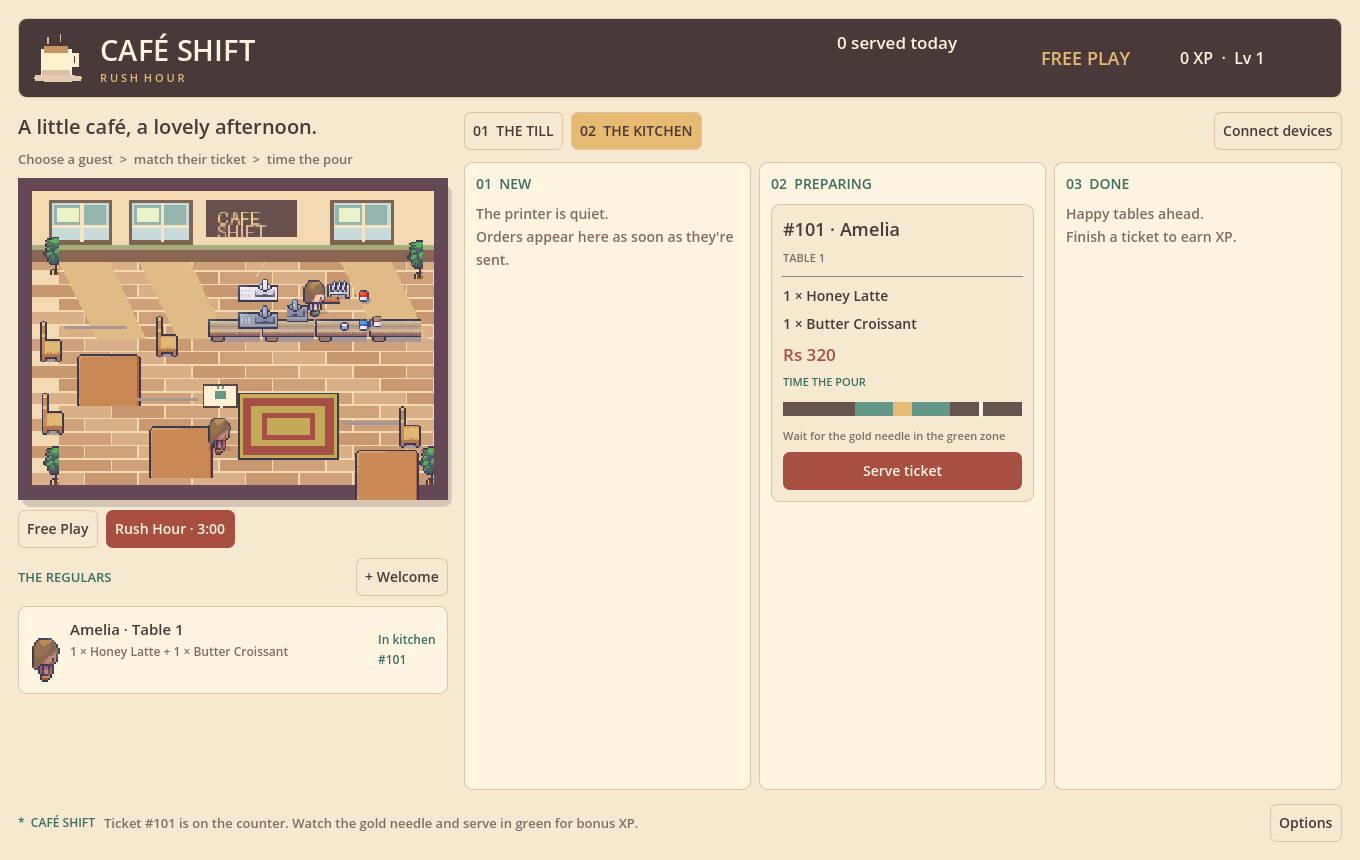
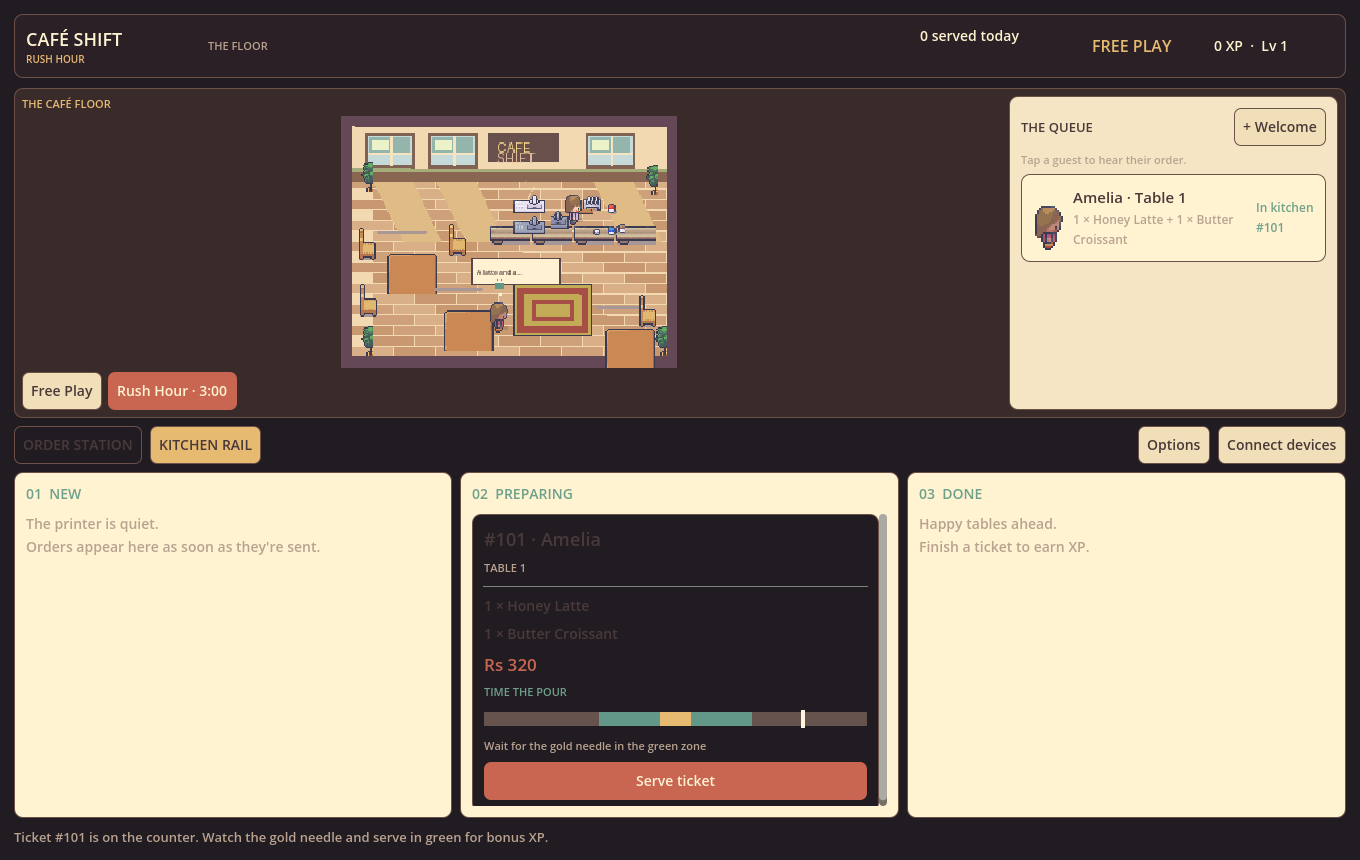
Reframe the shift screen and stabilize the kitchen rail

diff --git a/docs/AUTONOMOUS_REBUILD_PROGRESS.md b/docs/AUTONOMOUS_REBUILD_PROGRESS.md
@@ -1,0 +1,62 @@
+# CAFÉ SHIFT — Autonomous Rebuild Progress
+
+## Current phase
+
+Phase 0 complete. Phase 1 vertical slice is complete and verified on this branch; the next pass will deepen the café-world interaction and preparation presentation.
+
+## Baseline evidence
+
+- Branch: `codex/autonomous-rebuild`
+- Baseline HEAD: `05daac7` (`Document verified Rush Hour deployment`)
+- Working tree was clean before this checkpoint.
+- Godot: 4.7.1 stable (`a13da4feb`), Compatibility renderer.
+- Node: v24.16.0.
+- `godot --headless --editor --path . --quit`: passed.
+- `tests/test_orders.gd`: passed.
+- `tests/test_core.gd`: passed, 67 checks / 0 failures.
+- `tests/test_ui.gd` with the real OpenGL viewport: passed, 52 pointer activations / 0 failures.
+- `tests/test_ui.gd` headless: not a valid visual baseline; viewport sizing caused layout-dependent failures. The project’s documented GUI test requires a real OpenGL viewport.
+- `npm run test:backend`: passed, 30 checks / 0 failures.
+- After the first visual slice, the native GUI test still passes: 52 pointer activations / 0 failures.
+- Added a real café-floor pointer path and test coverage for selecting a waiting customer by clicking the drawn actor.
+- Kitchen rail re-run after the presentation edits exposed a layout collapse; after the fix, the full suite is green: import, core (67/0), orders, native GUI (52/0), backend (30/0).
+
+## Findings
+
+- `scripts/main.gd` is a 977-line runtime-built UI/controller and currently owns most presentation concerns.
+- `scripts/order_store.gd` and `scripts/shift_rules.gd` are the authoritative offline state and rule owners; preserve them as the gameplay contract.
+- `scripts/cafe_view.gd` already provides a small world view with fallback art, but customer actors are drawn rather than individually interactive.
+- The new café-floor input path is deliberately presentation-only: `OrderStore.shift` remains authoritative and the view emits a request ID rather than mutating state.
+- Existing UI tests assert stable control names and native input behavior; redesign work must preserve those contracts or update tests with equivalent observable behavior.
+- Godot is installed outside PATH at `C:\Users\LalithReddy.b\Godot\Godot_v4.7.1-stable_win64_console.exe`.
+- Hidden pages contribute no minimum size to the desk stack. The kitchen rail board had no minimum height, so switching to the kitchen tab let the desk collapse to about 150px, squeezing the columns to a ~16px visible slice and pushing the Advance button off-window (y=976). Fixed by giving the kitchen board a 320px floor and reserving the order page's height for the kitchen page at startup (`_stabilize_desk_pages`).
+
+## Completed work
+
+- Inspected repository, branch, recent history, project settings, scenes, core scripts, tests, backend entry points, and license notes.
+- Created the isolated local branch `codex/autonomous-rebuild`.
+- Ran the real baseline import, core, order, GUI, and backend checks.
+- Reframed the active shift as a compact HUD, café-floor stage, queue rail, order station, and kitchen rail instead of a large header plus dashboard columns.
+- Reduced product presentation to compact shelf slots while preserving every product ID, price, and existing test control name.
+- Converted the cart actions into a compact counter receipt action row.
+- Added café-floor mouse/touch customer hit testing, dialogue bubbles, and a native GUI regression check for actor selection.
+- Root-caused and fixed the kitchen-rail desk collapse (kitchen board minimum height + kitchen page height stabilization), then re-verified every suite and refreshed all four screenshots.
+
+## Changed files
+
+- `docs/AUTONOMOUS_REBUILD_PROGRESS.md` (this checkpoint)
+- `scripts/main.gd`
+- `scripts/cafe_view.gd`
+- `tests/test_ui.gd`
+
+## Known regressions
+
+- The kitchen-rail desk collapse found during re-verification is fixed and covered by the native GUI suite. No known regressions remain at this checkpoint.
+
+## Next actionable task
+
+Implement the next interaction slice: make customer selection and queue feedback more readable at narrow widths, then introduce a reusable preparation-station presentation without changing the authoritative order transitions.
+
+## External blockers
+
+- No Godot editor/runtime blocker. Physical touchscreen/controller testing and production deployment remain intentionally out of scope until local changes are verified.
